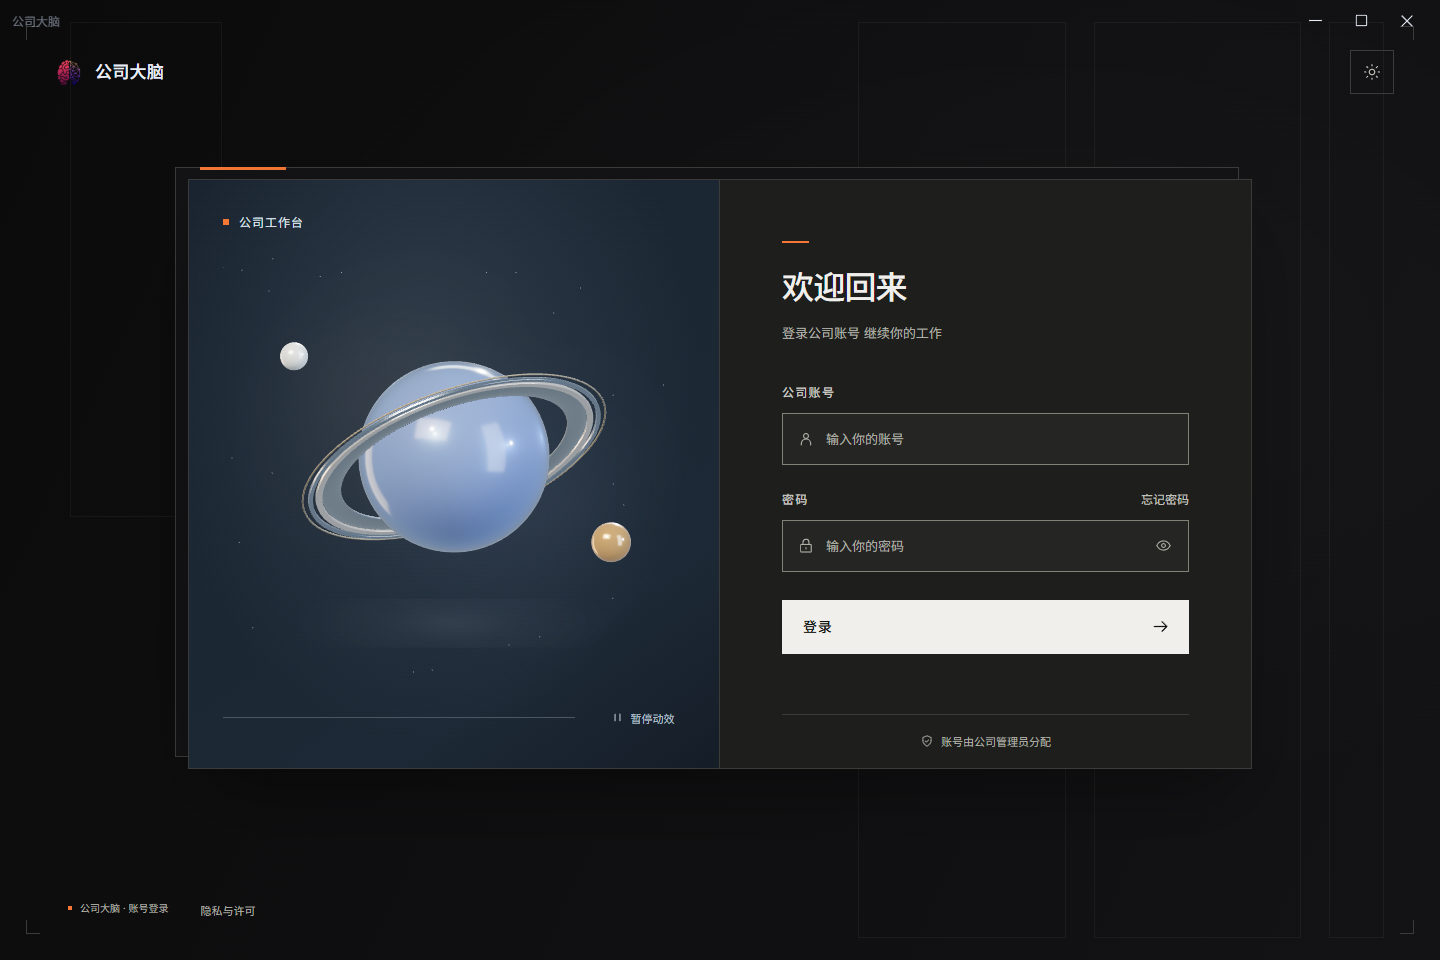
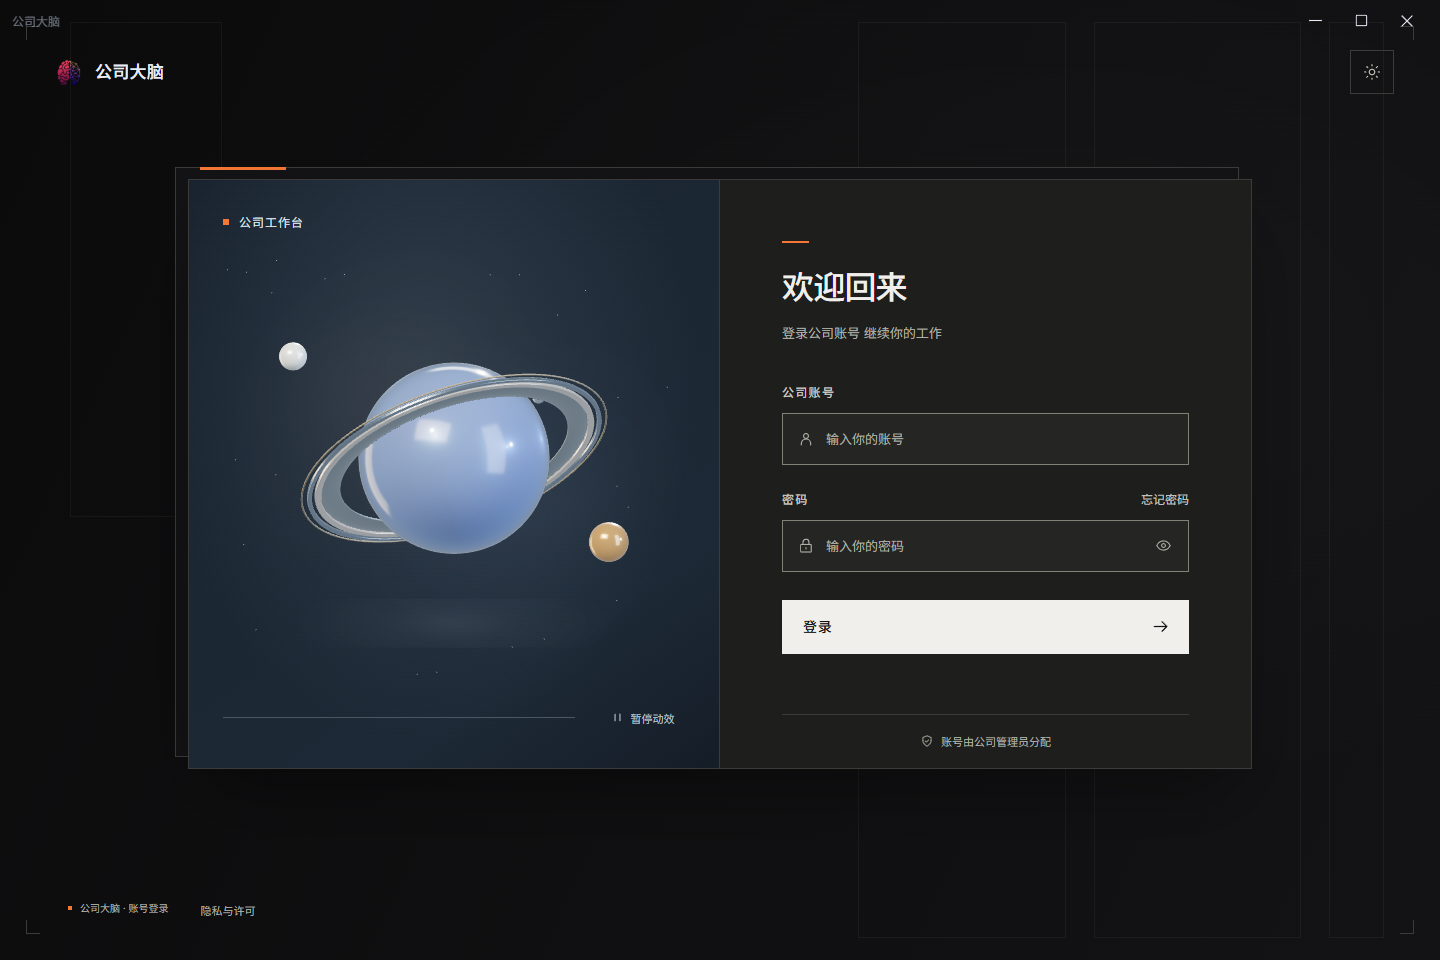
test: separate fallback and motion verification for v0.34.2

diff --git a/docs/releases/v0.34.2.md b/docs/releases/v0.34.2.md
@@ -1,0 +1,25 @@
+# v0.34.2 · 星球动态登录页
+
+## 员工端更新
+
+- 登录页采用已确认的暖白双栏设计，统一 Inter 与 Noto Sans SC 字体、账号输入、密码输入和登录按钮的排版。
+- 左侧为原创玻璃星球、金属轨道和卫星的实时三维视觉，支持轻微鼠标跟随。星球画面不放置公司标志或文字，公司标志保留在页头。
+- 支持浅色与深色切换、手动暂停动效；系统要求减少动态效果或窗口隐藏时停止动画。窄窗口隐藏装饰区，显卡不可用或绘图上下文丢失时显示原创静态星球，保留可用的登录表单。
+- 密码可显示或隐藏，开启大写锁定时提示；忘记密码提供联系公司管理员的说明。保留实际账号验证、首位管理员初始化、窗口控制和隐私与许可入口。
+- 原有客户端启动动画及进入工作台的流程保留。登录页不包含演示账号、模拟登录或新的注册入口。
+
+## 客户端与服务器更新
+
+客户端与服务器版本均为 0.34.2。员工界面由公司服务器提供，因此需更新服务器包才能看到新登录页；仅安装新版客户端不会替换服务器上的网页。
+
+Mac mini 是本次主要部署目标。服务器包包含编译后的网页与锁定依赖，新版新增 Three.js 依赖，须在新的版本目录运行 `npm ci --include=dev`，不能直接复用旧版依赖目录。部署前一致性备份数据库、加密密钥及本项目配置；继续使用原有数据库与密钥，保留账号、部门、NAS、技能、模型配置及员工本机对话。
+
+三平台安装包及校验文件通过 GitHub Releases 和公司更新源分发。Windows 已安装用户可从客户端更新入口后台升级并自动重启；Mac 使用相应架构的 DMG 更新。
+
+## 验证范围与许可
+
+本机 206 项程序测试、8 项 NAS 测试、完整桌面交互、个人资料与生产任务流程检查通过。新增真实 Electron 登录页验收，覆盖真实接口拒绝错误密码、成功登录、深浅色、390px 窄窗口、密码可见性和管理员帮助；在本机实际 WebGL 下验证画面帧变化、指针交互、手动暂停、系统减少动态效果、隐藏窗口暂停、登录后资源释放及绘图上下文丢失后的静态显示。
+
+三维模块在启动动画结束后按需加载，不读取账号表单，不请求远程纹理、外部场景或遥测服务。动画限制最高 30 帧/秒和像素比 1.5，进入工作台后释放绘图资源。三平台正式构建与原生安装、升级、卸载和分发检查以 Release 附带的真实平台记录为准；没有 WebGL 的运行环境据实记录静态显示，不宣称已验证硬件三维效果。
+
+原创代码与星球视觉采用 MIT。Three.js 固定为 0.187.0，保留 MIT 许可及第三方声明；没有嵌入 Vibrant 或 Spline 的专有素材或在线场景。Windows 尚未取得可信代码签名；Mac 使用 ad-hoc 签名，未经过 Apple 公证。
